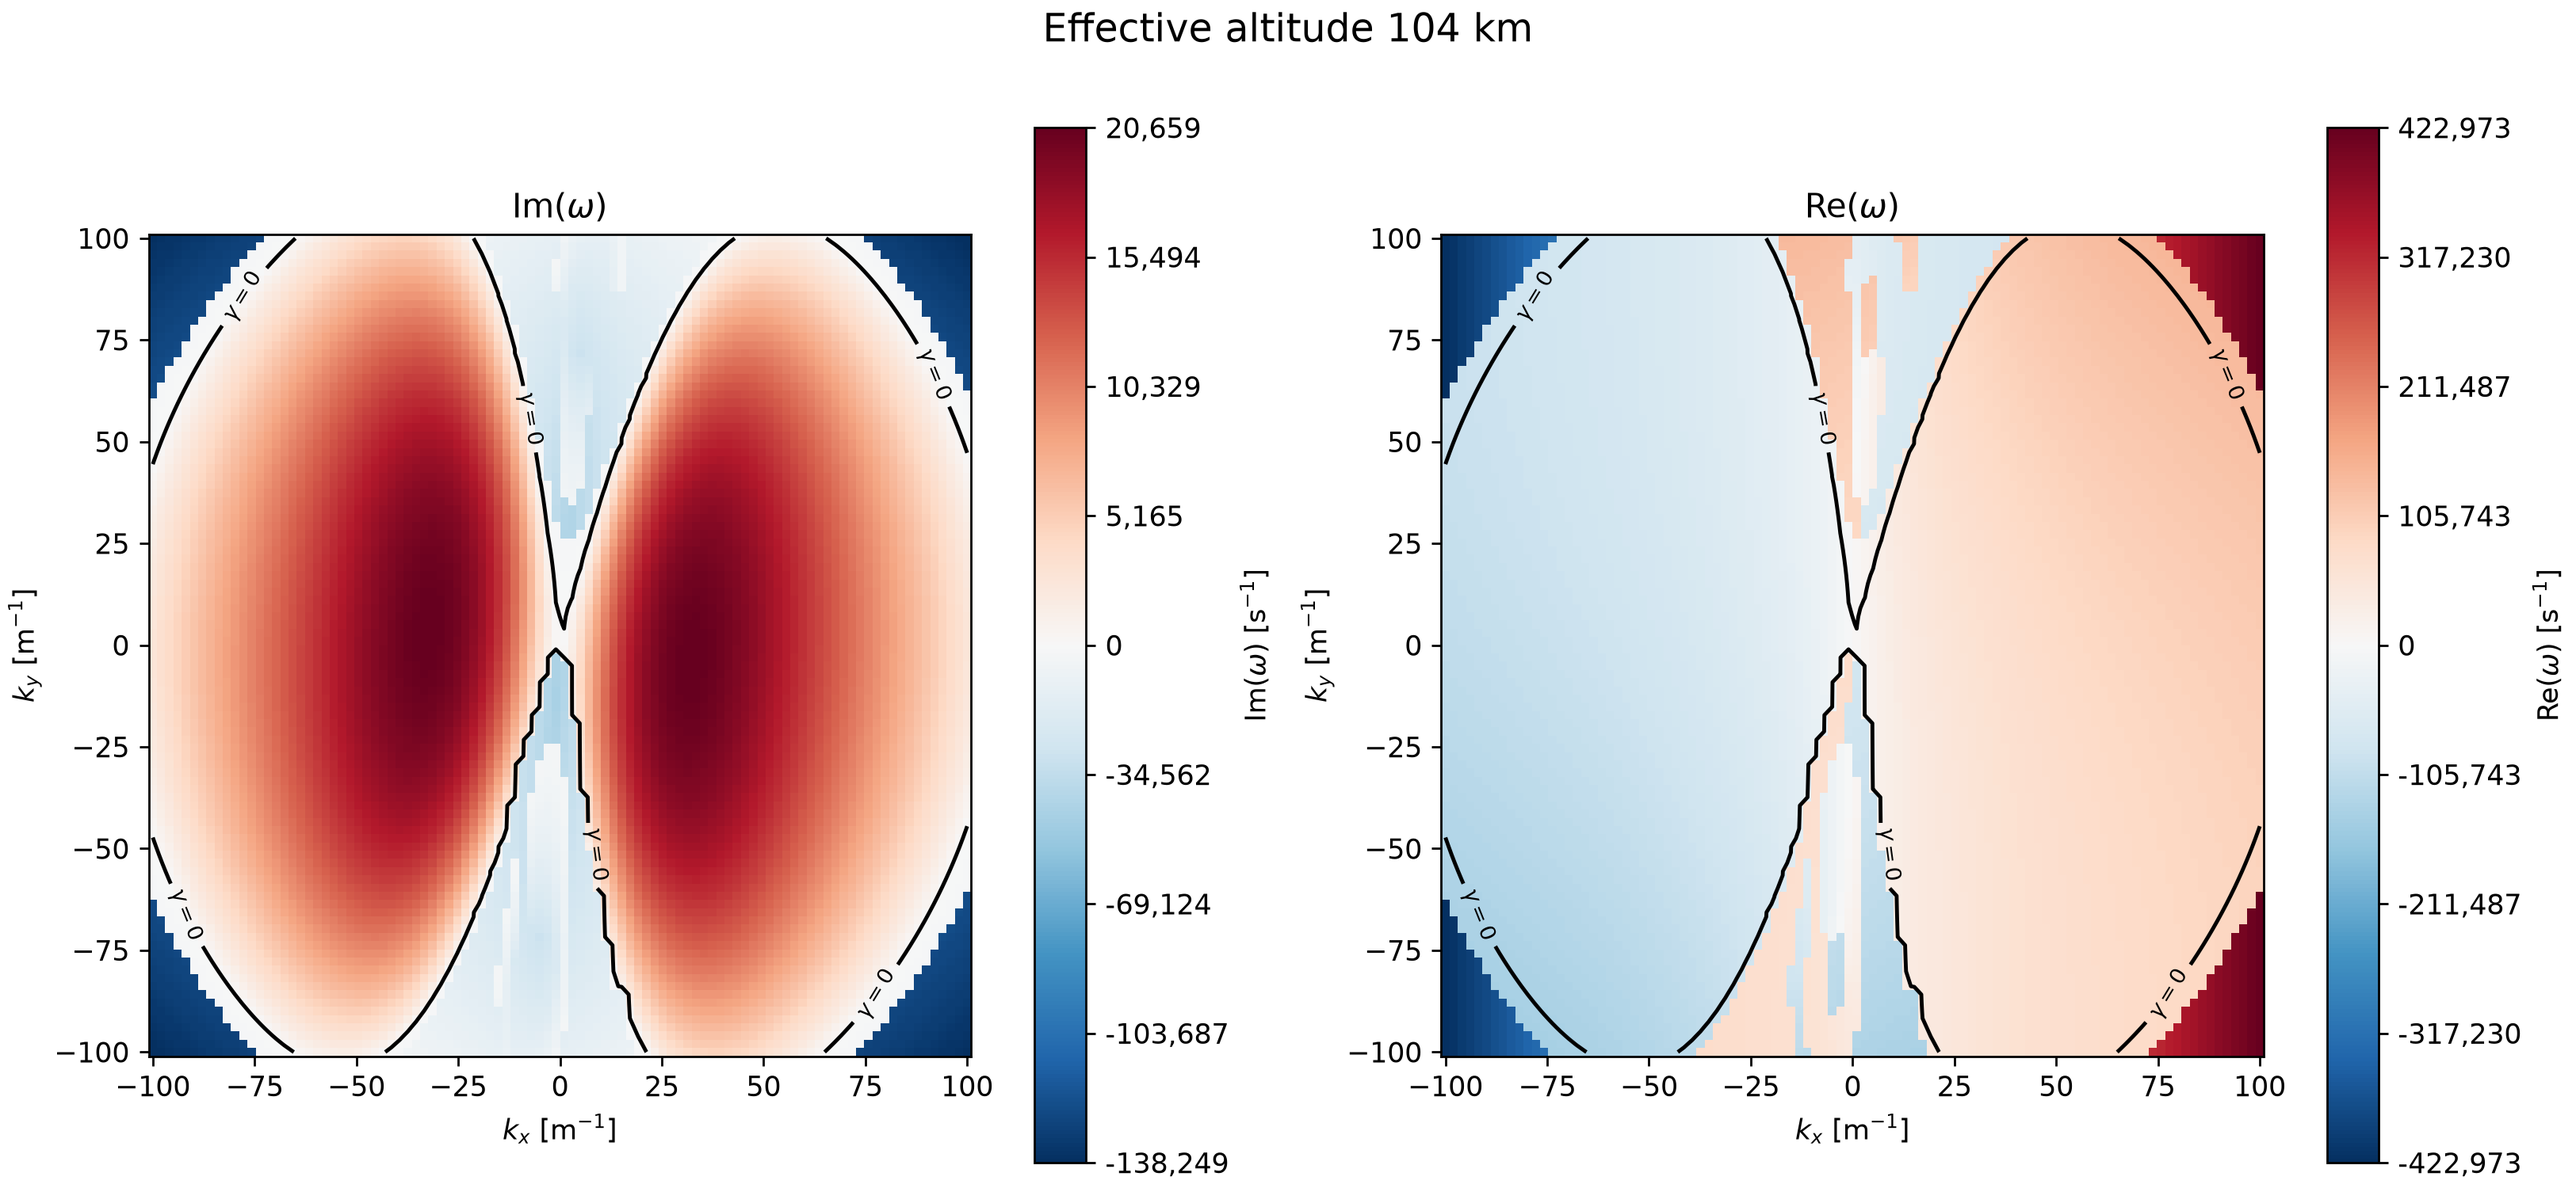
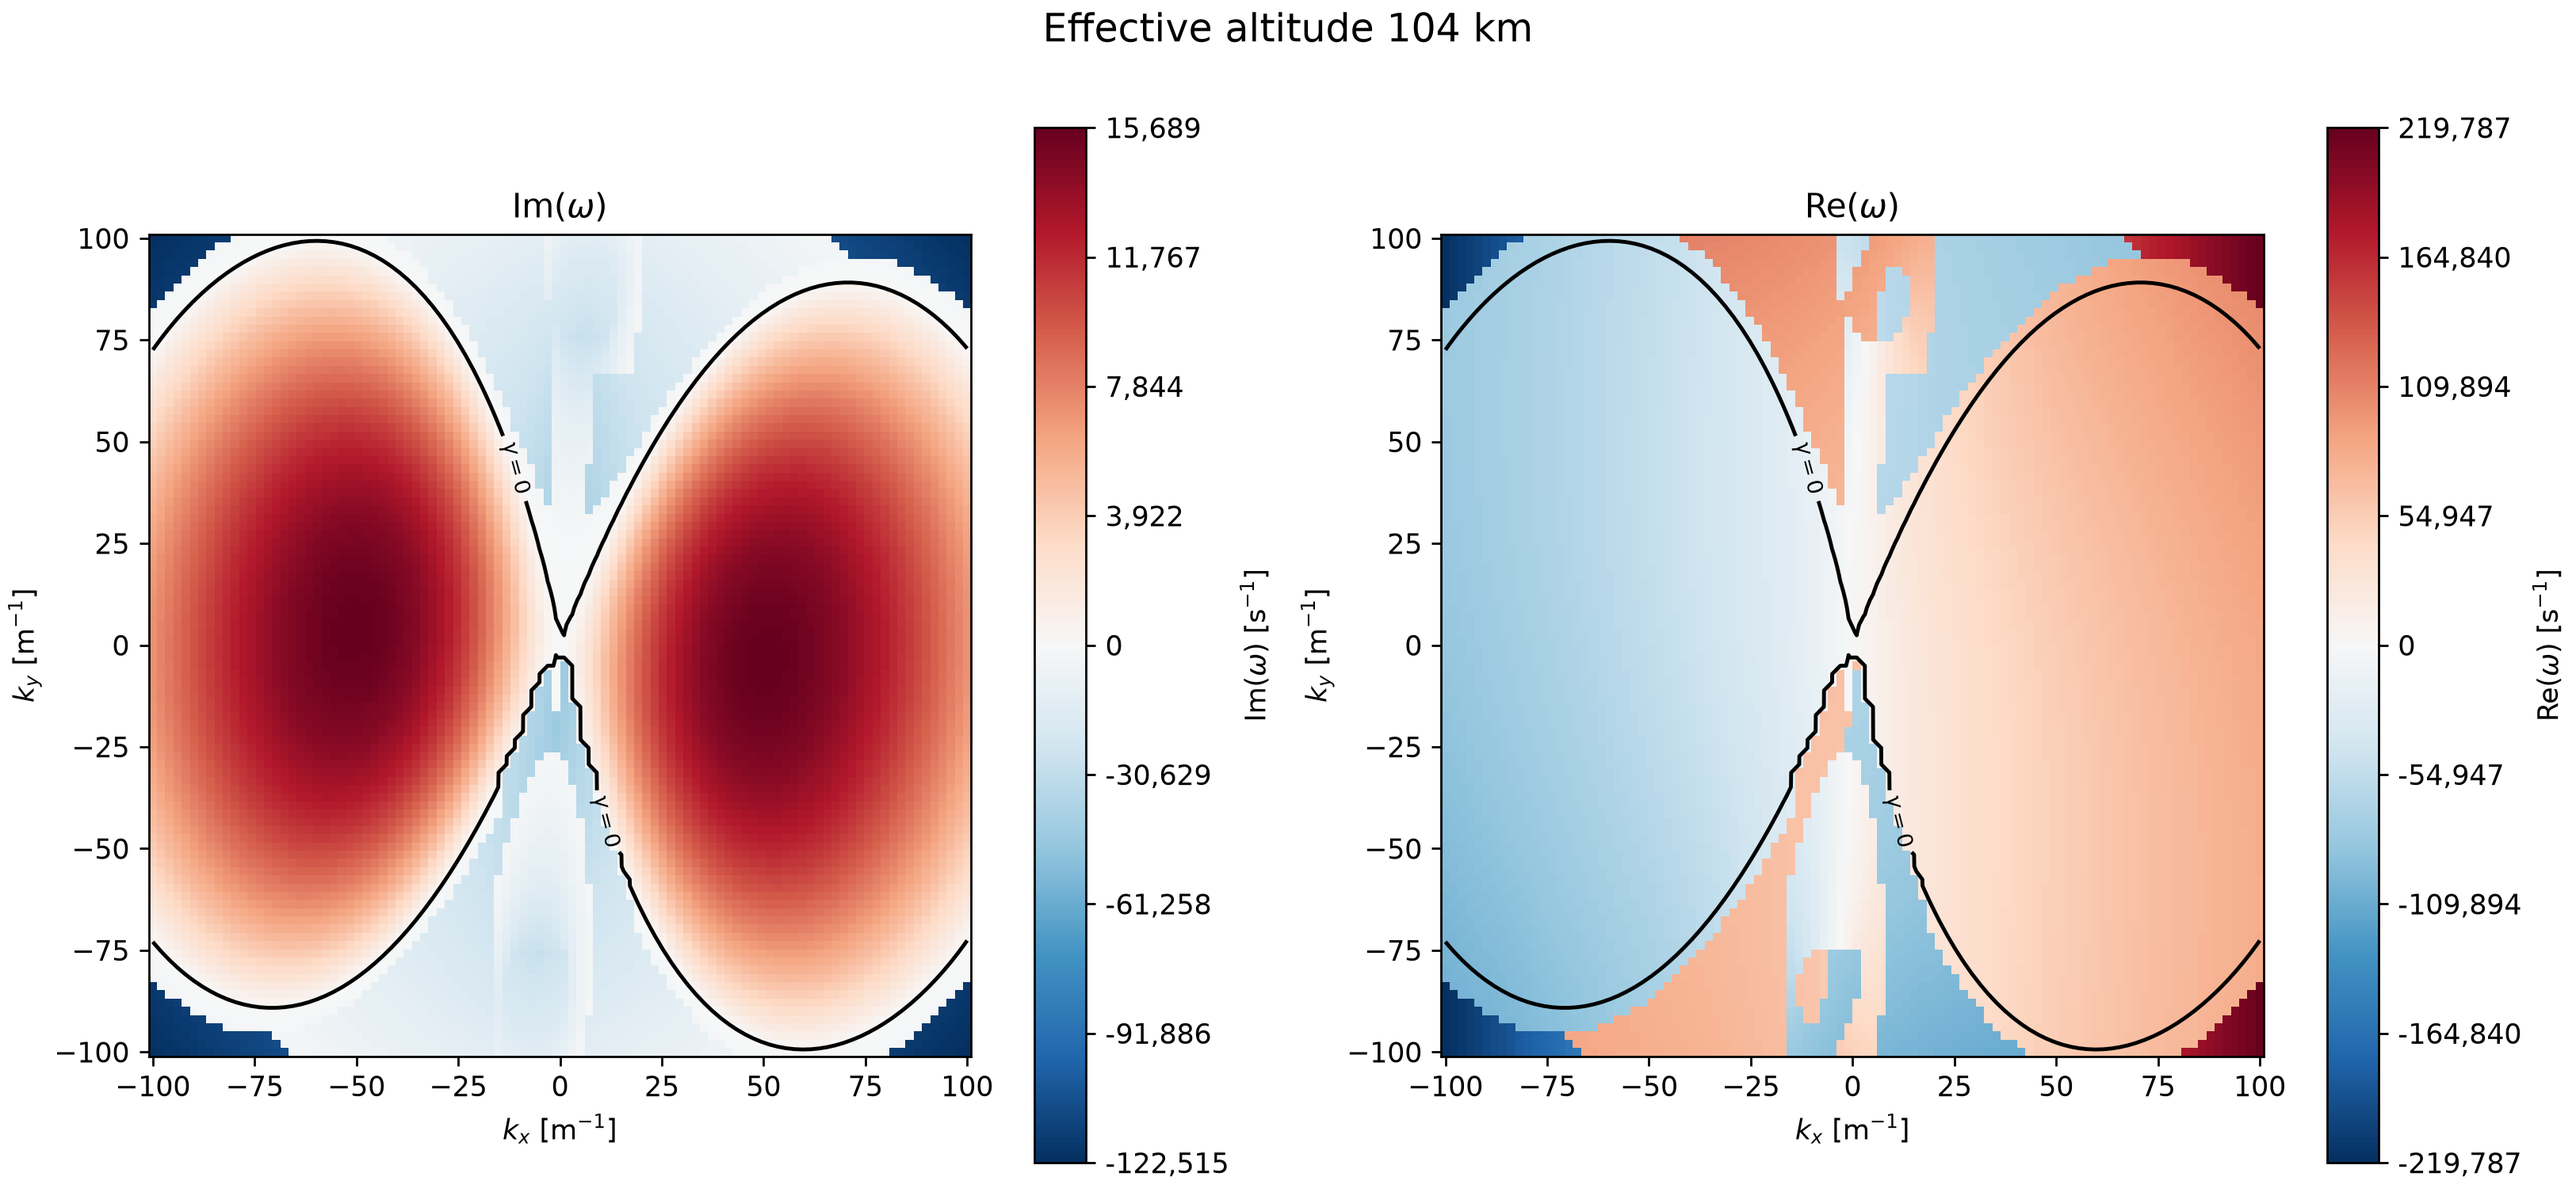
updated difference plots

diff --git a/csvmethods.py b/csvmethods.py
@@ -155,18 +155,14 @@ def plot_field_difference(path_nonzero, path_zero, save_path, column="growth_rat
         raise ValueError("No finite difference values to plot.")
 
     vmax = max(float(np.nanpercentile(finite_abs_diff, percentile)), 1e-12)
-    actual_max = float(np.nanmax(finite_abs_diff))
     norm = TwoSlopeNorm(vmin=-vmax, vcenter=0.0, vmax=vmax)
 
     fig, ax = plt.subplots(figsize=(8, 6))
     mesh = ax.pcolormesh(kx_vals, ky_vals, diff, shading="auto", cmap="RdBu_r", norm=norm)
-    fig.colorbar(mesh, ax=ax, extend="both", label=rf"$\Delta$ {column}")
+    fig.colorbar(mesh, ax=ax, extend="both", label=rf"$\Delta$ Im($\omega$)")
 
     ax.set_xlabel(r"$k_x$ [m$^{-1}$]")
     ax.set_ylabel(r"$k_y$ [m$^{-1}$]")
-    ax.set_title(
-        f"{column} difference (a_i0$\\neq$0 minus a_i0=0),",
-    )
     fig.tight_layout()
     fig.savefig(save_path, dpi=300, bbox_inches="tight")
     plt.close(fig)

diff --git a/constants.py b/constants.py
@@ -11,7 +11,7 @@ e = 1.6e-19                                             # Elementary charge (C)
 eps_0 = 8.854e-12                                       # Vacuum permittivity (F/m)
 delta_en = 3e-3                                         # Electron energy loss fraction (dimensionless)
 
-B_0 = 5e-05                                          # Static magnetic field (T)
+B_0 = 5e-05                                             # Static magnetic field (T)
 V_d = 2100                                              # Drift velocity (m/s)
 E_0 = V_d * B_0                                         # Background electric field (V/m)
 
